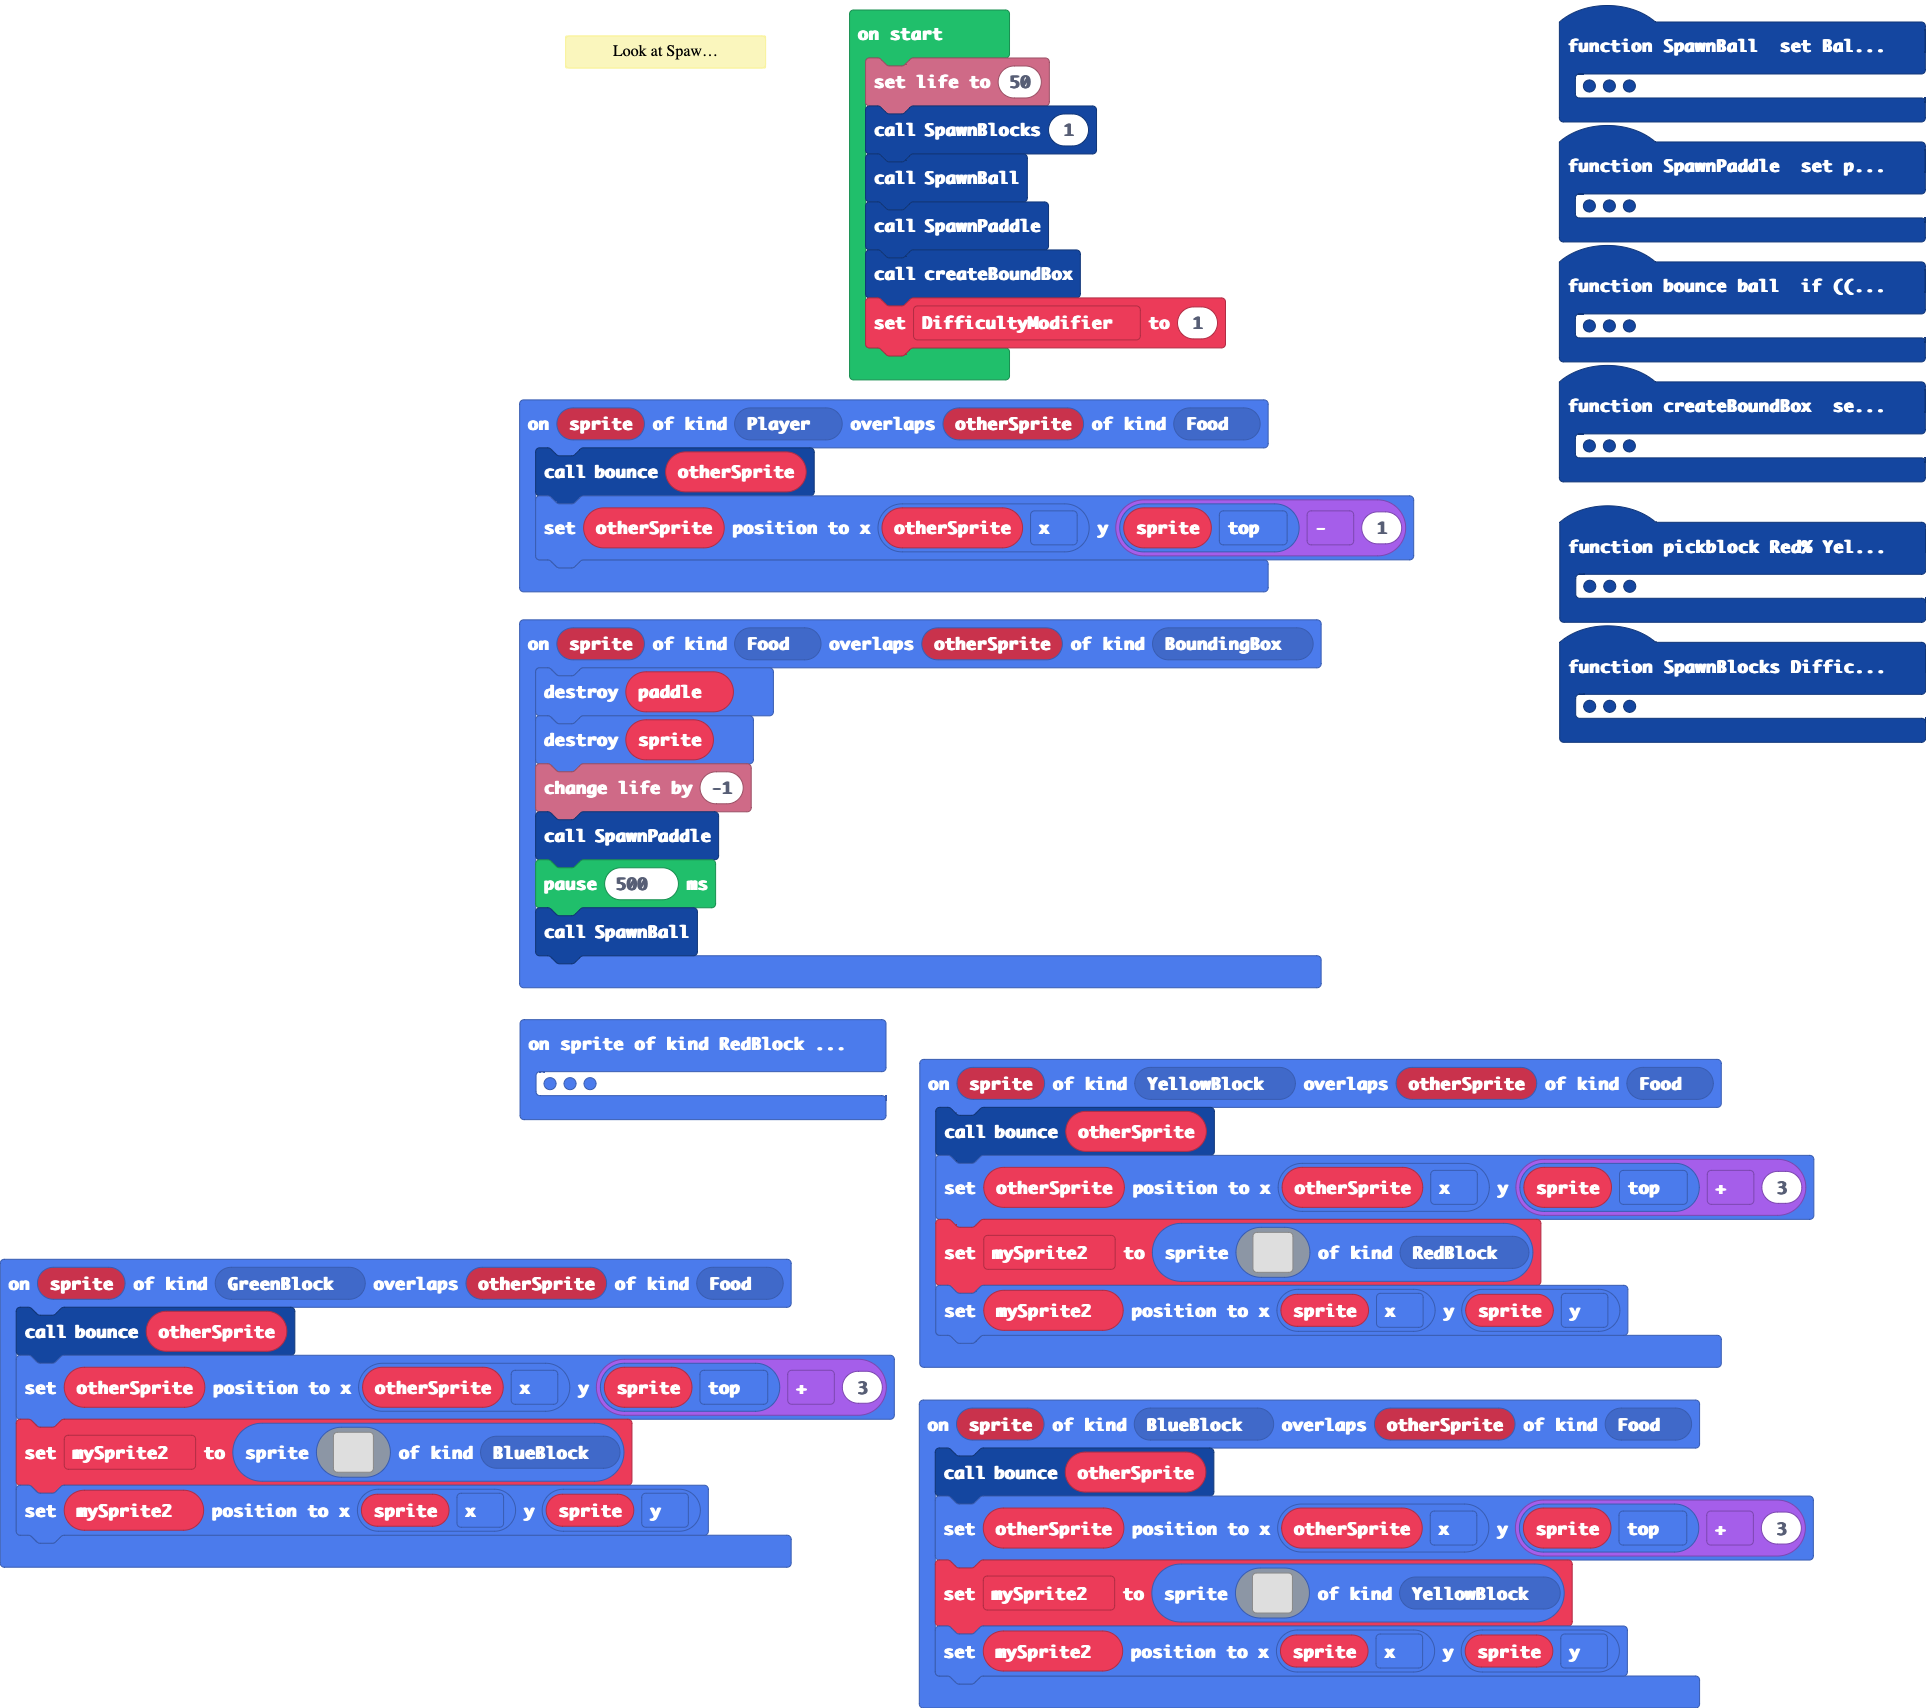
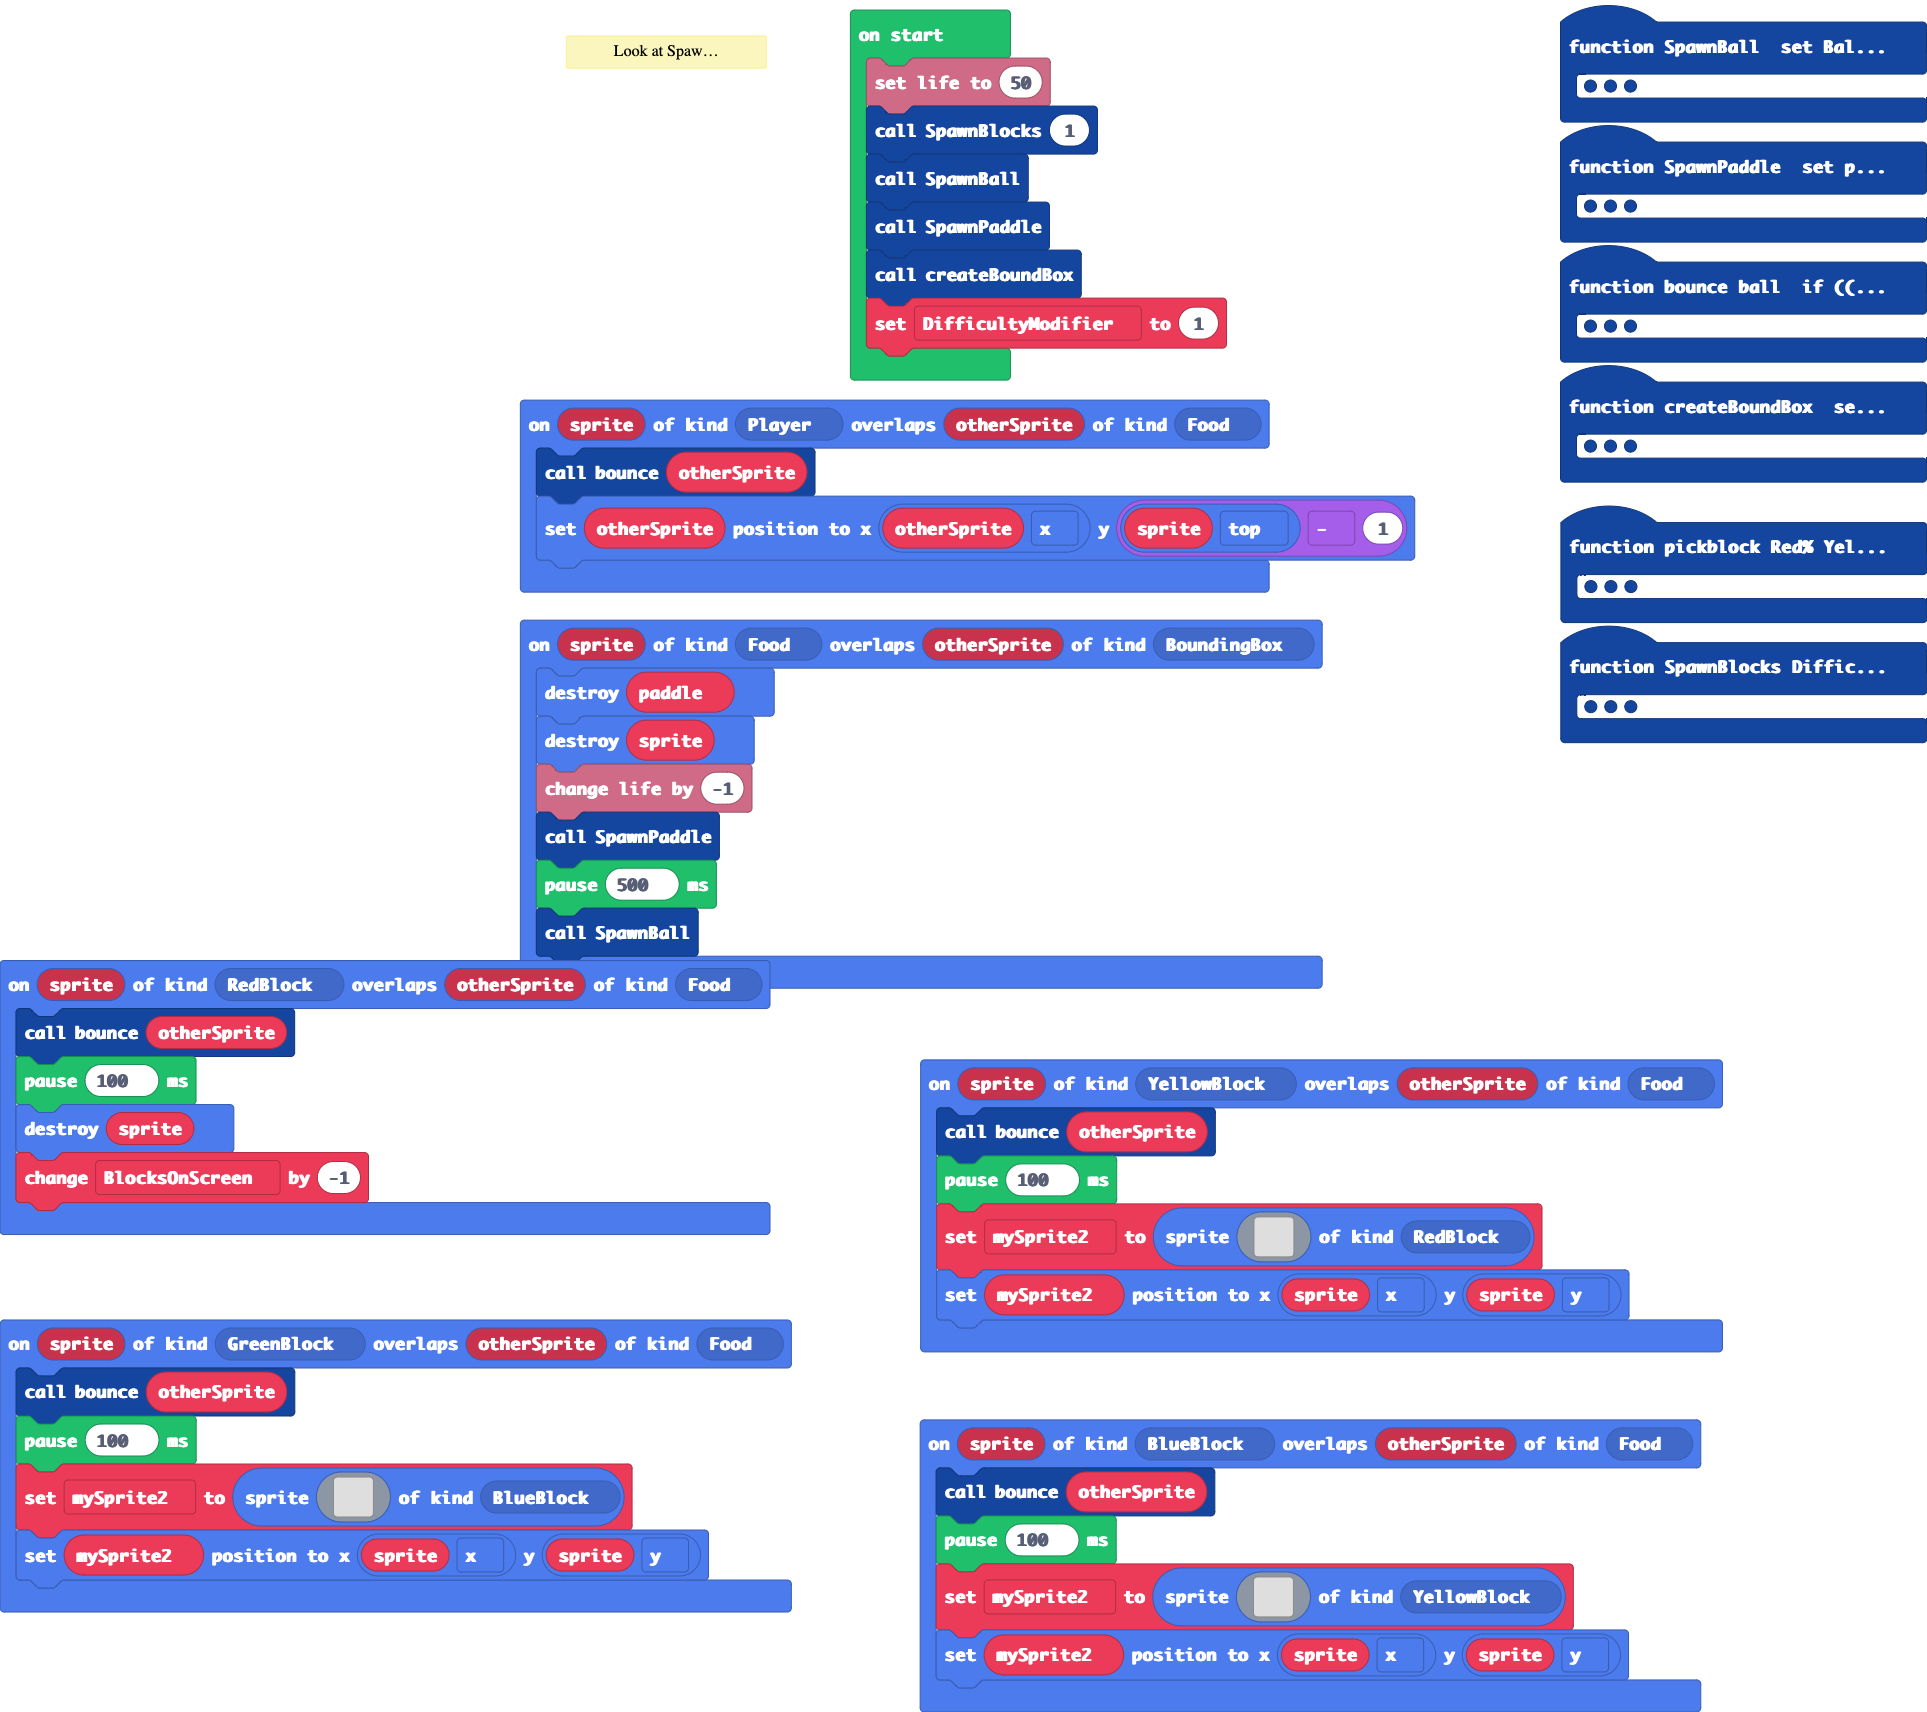
Finished with colisions

diff --git a/main.ts b/main.ts
@@ -10,7 +10,7 @@ namespace SpriteKind {
  */
 sprites.onOverlap(SpriteKind.YellowBlock, SpriteKind.Food, function (sprite, otherSprite) {
     bounce(otherSprite)
-    otherSprite.setPosition(otherSprite.x, sprite.top + 3)
+    pause(100)
     mySprite2 = sprites.create(img`
         2 2 2 2 2 2 2 2 
         2 2 2 2 2 2 2 2 
@@ -98,6 +98,12 @@ function SpawnBall () {
     Ball.setVelocity(ballXSpeed, BallYSPeed)
     Ball.setBounceOnWall(true)
 }
+sprites.onOverlap(SpriteKind.RedBlock, SpriteKind.Food, function (sprite, otherSprite) {
+    bounce(otherSprite)
+    pause(100)
+    sprites.destroy(sprite)
+    BlocksOnScreen += -1
+})
 function SpawnPaddle () {
     paddle = sprites.create(img`
         9 9 9 9 9 9 9 9 9 9 9 9 9 9 9 9 
@@ -126,7 +132,7 @@ function pickblock (Red: number, Yellow: number, Blue: number) {
 }
 sprites.onOverlap(SpriteKind.BlueBlock, SpriteKind.Food, function (sprite, otherSprite) {
     bounce(otherSprite)
-    otherSprite.setPosition(otherSprite.x, sprite.top + 3)
+    pause(100)
     mySprite2 = sprites.create(img`
         5 5 5 5 5 5 5 5 
         5 5 5 5 5 5 5 5 
@@ -147,15 +153,9 @@ sprites.onOverlap(SpriteKind.Player, SpriteKind.Food, function (sprite, otherSpr
     bounce(otherSprite)
     otherSprite.setPosition(otherSprite.x, sprite.top - 1)
 })
-sprites.onOverlap(SpriteKind.RedBlock, SpriteKind.Food, function (sprite, otherSprite) {
-    bounce(otherSprite)
-    otherSprite.setPosition(otherSprite.x, sprite.top + 3)
-    sprites.destroy(sprite)
-    BlocksOnScreen += -1
-})
 sprites.onOverlap(SpriteKind.GreenBlock, SpriteKind.Food, function (sprite, otherSprite) {
     bounce(otherSprite)
-    otherSprite.setPosition(otherSprite.x, sprite.top + 3)
+    pause(100)
     mySprite2 = sprites.create(img`
         8 8 8 8 8 8 8 8 
         8 8 8 8 8 8 8 8 
